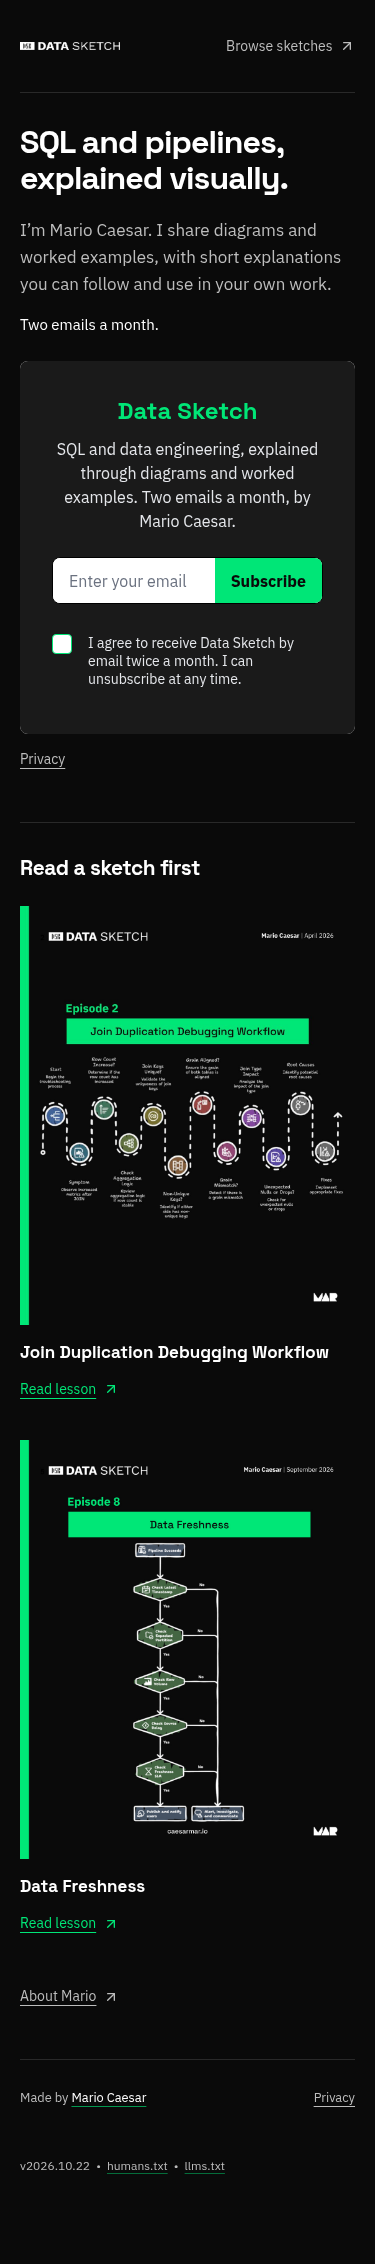
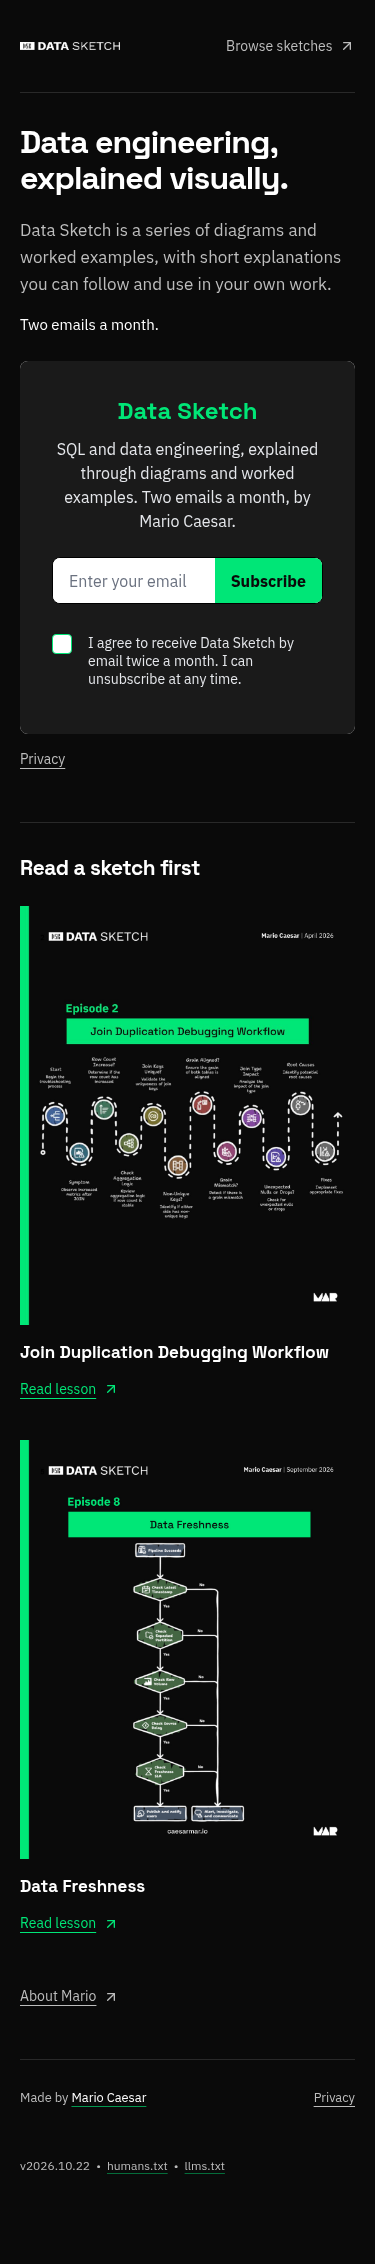
Update newsletter copy for the data engineering series

diff --git a/docs/newsletter-redesign.md b/docs/newsletter-redesign.md
@@ -1,7 +1,7 @@
 # Newsletter redesign — 22 October 2026
 
 The `/newsletter` page now uses a left-aligned reading column up to 640 px wide.
-The heading explains the subject, Mario's introduction explains the format, and
+The heading explains the subject, the description explains the series format, and
 the frequency precedes the signup form. The existing logo, dark/green palette,
 local Space Grotesk and IBM Plex Sans, official beehiiv integration, canonical
 route, and prerendering remain in use.
@@ -20,6 +20,21 @@ label are 22 October, the implementation date in Asia/Jakarta. The underlying
 package version remains 1.0.2; lesson and gallery editorial dates stay unchanged.
 
 ## Visual review
+
+The wording was refined on the same development date to match the wider data
+engineering scope. The headline is **Data engineering, explained visually.**
+The introduction reads: **Data Sketch is a series of diagrams and worked
+examples, with short explanations you can follow and use in your own work.**
+Frequency remains **Two emails a month.** Metadata uses the same scope and names
+Mario Caesar as author; the layout, fonts and form settings are unchanged.
+The screenshots below are refreshed for this wording update.
+
+For this copy update, typecheck, lint, production build, all 28 existing tests
+and SEO checks pass. Generated HTML and Markdown contain the approved wording;
+description, Open Graph and Twitter metadata agree. A fresh browser pass at 320,
+375, 768 and 1440 px found no text/page overflow or uncaught page errors, with one
+loader and iframe. The headline takes two lines at 320, 375 and 1440 px, and one
+line at 768 px. No layout adjustment was needed.
 
 Actual local production-build captures, using the currently published vendor
 form rather than a mockup:

diff --git a/public/newsletter/index.md b/public/newsletter/index.md
@@ -1,10 +1,10 @@
-# SQL and pipelines, explained visually.
+# Data engineering, explained visually.
 
-> Diagrams and worked examples on SQL and data engineering, by Mario Caesar. Two emails a month.
+> Data engineering diagrams and worked examples by Mario Caesar, with short explanations you can use in your own work. Two emails a month.
 
 Canonical page: https://datasketch.caesarmar.io/newsletter
 
-I’m Mario Caesar. I share diagrams and worked examples, with short explanations you can follow and use in your own work.
+Data Sketch is a series of diagrams and worked examples, with short explanations you can follow and use in your own work.
 
 Two emails a month.
 
